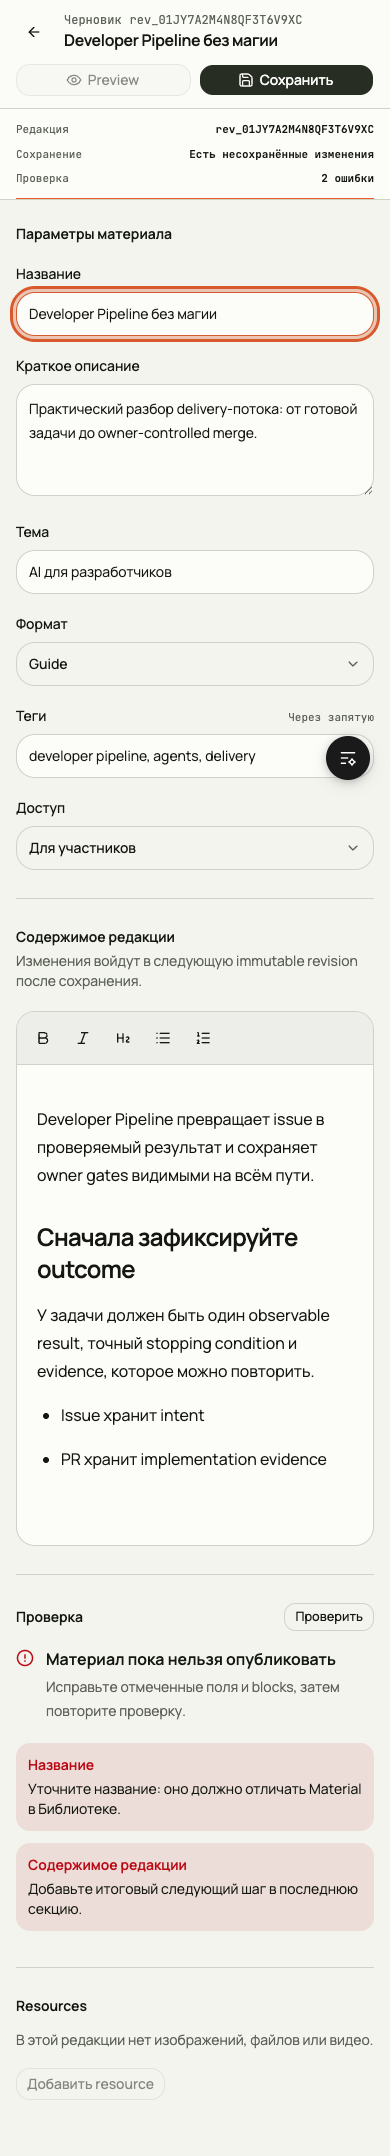
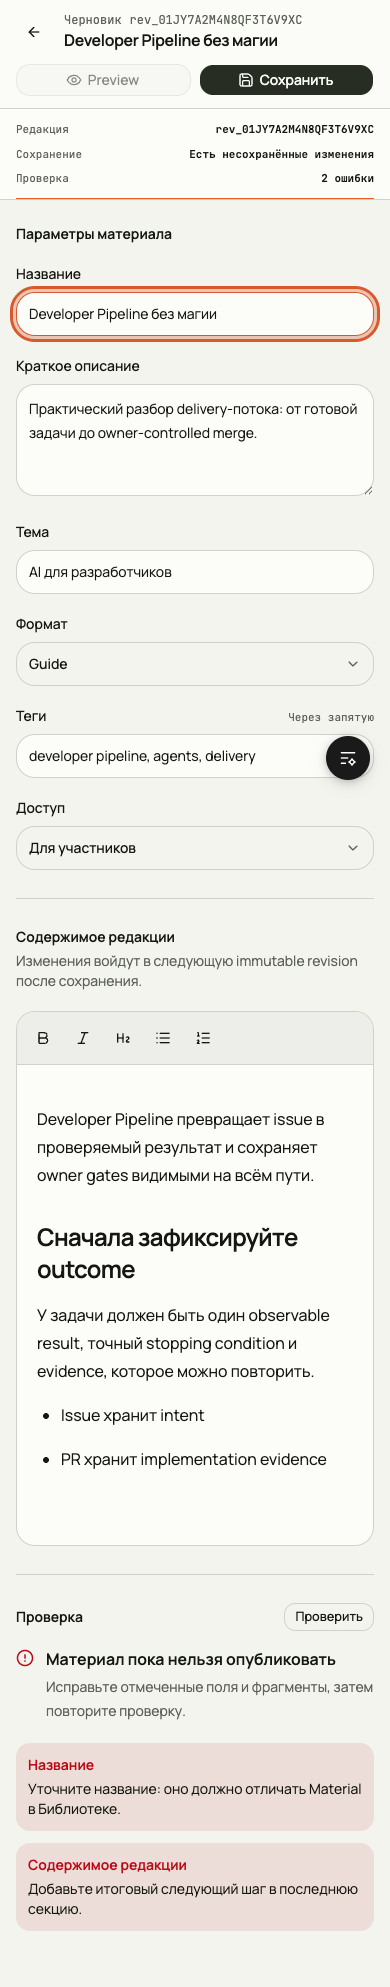
fix(web): tighten authoring review evidence

diff --git a/apps/web/src/workshop/material-authoring.stories.tsx b/apps/web/src/workshop/material-authoring.stories.tsx
@@ -8,16 +8,14 @@ import {
   type MaterialAuthoringActions,
   type MaterialAuthoringPresentation,
   type MaterialDraftField,
-  type MaterialPreviewBlock,
-  type MaterialPreviewMark,
-  type MaterialPreviewPresentation,
-  type MaterialPreviewText,
 } from "@/features/material-authoring";
 
 import {
   emptyMaterialAuthoringPresentation,
   invalidMaterialAuthoringPresentation,
   materialAuthoringPresentation,
+  savedAfterEditingPresentation,
+  savedRevisionId,
 } from "./material-authoring.fixtures";
 
 const noopActions = {
@@ -31,8 +29,6 @@ const noopActions = {
   onSave: fn(),
   onValidate: fn(),
 } satisfies MaterialAuthoringActions;
-
-const savedRevisionId = "rev_01JY7C6RE4M2W9PK5AHN";
 
 function MaterialAuthoringFixture({
   initialPresentation,
@@ -94,21 +90,7 @@ function MaterialAuthoringFixture({
     },
     onSave: () => {
       noopActions.onSave();
-      setPresentation((current) => {
-        const draft = {
-          ...current.draft,
-          materialId: current.draft.materialId ?? "mat_developer_pipeline",
-          revisionId: savedRevisionId,
-          status: "draft" as const,
-        };
-        return {
-          ...current,
-          draft,
-          preview: projectPreview(draft, savedRevisionId),
-          save: { kind: "saved", savedAtLabel: "12:41" },
-          validation: { kind: "unchecked" },
-        };
-      });
+      setPresentation(savedAfterEditingPresentation);
     },
     onValidate: () => {
       noopActions.onValidate();
@@ -116,10 +98,7 @@ function MaterialAuthoringFixture({
       window.setTimeout(() => {
         setPresentation((current) => ({
           ...current,
-          validation:
-            current.draft.title.trim().length === 0
-              ? invalidMaterialAuthoringPresentation.validation
-              : { kind: "valid", checkedAtLabel: "12:42" },
+          validation: { kind: "valid", checkedAtLabel: "12:42" },
         }));
       }, 120);
     },
@@ -205,8 +184,16 @@ export const Submitting: Story = {
   },
   play: async ({ canvasElement }) => {
     const canvas = within(canvasElement);
-    await expect(canvas.getByRole("button", { name: "Сохранение…" })).toBeDisabled();
+    const saveButton = canvas.getByRole("button", { name: "Сохранение…" });
+    await expect(saveButton).toBeDisabled();
     await expect(canvas.getAllByText("Сохранение…").length).toBeGreaterThan(0);
+    const loader = saveButton.querySelector("svg");
+    await expect(loader).not.toBeNull();
+    if (loader !== null) {
+      const style = canvasElement.ownerDocument.defaultView?.getComputedStyle(loader);
+      await expect(style?.animationName).toBe("none");
+      await expect(style?.animationDuration).toBe("0s");
+    }
   },
 };
 
@@ -279,6 +266,20 @@ export const ExactPreview: Story = {
   },
 };
 
+export const ExactPreviewMobile: Story = {
+  args: {
+    presentation: { ...materialAuthoringPresentation, mode: "preview" },
+  },
+  globals: { viewport: { isRotated: false, value: "mobile390" } },
+  name: "Exact Preview · mobile",
+  play: async ({ canvasElement }) => {
+    const canvas = within(canvasElement);
+    await expect(canvas.getByRole("heading", { name: "Preview exact revision" })).toBeInTheDocument();
+    await expect(canvas.getAllByText(/rev_01JY7A2M4N8QF3T6V9XC/).length).toBeGreaterThan(0);
+    await expectNoHorizontalOverflow(canvasElement);
+  },
+};
+
 export const Conflict: Story = {
   args: {
     presentation: {
@@ -347,74 +348,4 @@ async function expectNoHorizontalOverflow(canvasElement: HTMLElement) {
   await expect(canvasElement.ownerDocument.documentElement.scrollWidth).toBeLessThanOrEqual(
     storyWindow.innerWidth + 1,
   );
-}
-
-function projectPreview(
-  draft: MaterialAuthoringPresentation["draft"],
-  exactRevisionId: string,
-): MaterialPreviewPresentation {
-  return {
-    accessLabel: draft.access === "membership" ? "Для участников" : "Бесплатный",
-    blocks: projectBlocks(draft.document.content ?? []),
-    exactRevisionId,
-    format: draft.format,
-    summary: draft.summary,
-    tags: draft.tags.split(",").map((tag) => tag.trim()).filter(Boolean),
-    title: draft.title,
-    topic: draft.topic,
-  };
-}
-
-function projectBlocks(nodes: readonly JSONContent[]): readonly MaterialPreviewBlock[] {
-  return nodes.flatMap((node): readonly MaterialPreviewBlock[] => {
-    switch (node.type) {
-      case "paragraph":
-        return [{ content: projectInline(node.content ?? []), kind: "paragraph" }];
-      case "heading": {
-        const rawLevel = typeof node.attrs?.level === "number" ? node.attrs.level : 2;
-        const level = Math.min(4, Math.max(2, rawLevel)) as 2 | 3 | 4;
-        return [{ content: projectInline(node.content ?? []), kind: "heading", level }];
-      }
-      case "bulletList":
-      case "orderedList":
-        return [{
-          items: (node.content ?? []).map((item) => projectBlocks(item.content ?? [])),
-          kind: node.type === "bulletList" ? "bullet_list" : "ordered_list",
-        }];
-      case "blockquote":
-        return [{ content: projectBlocks(node.content ?? []), kind: "blockquote" }];
-      case "codeBlock":
-        return [{ kind: "code_block", text: collectText(node.content ?? []) }];
-      case "horizontalRule":
-        return [{ kind: "horizontal_rule" }];
-      case undefined:
-      default:
-        return [];
-    }
-  });
-}
-
-function projectInline(nodes: readonly JSONContent[]): readonly MaterialPreviewText[] {
-  return nodes.flatMap((node): readonly MaterialPreviewText[] => {
-    if (node.type !== "text" || typeof node.text !== "string") {
-      return [];
-    }
-    return [{
-      kind: "text",
-      marks: (node.marks ?? []).flatMap((mark): readonly MaterialPreviewMark[] => {
-        if (mark.type === "link" && typeof mark.attrs?.href === "string") {
-          return [{ href: mark.attrs.href, kind: "link" }];
-        }
-        if (mark.type === "bold" || mark.type === "code" || mark.type === "italic" || mark.type === "strike") {
-          return [{ kind: mark.type }];
-        }
-        return [];
-      }),
-      text: node.text,
-    }];
-  });
-}
-
-function collectText(nodes: readonly JSONContent[]): string {
-  return nodes.map((node) => node.text ?? collectText(node.content ?? [])).join("");
 }

diff --git a/apps/web/src/features/material-authoring/ui/material-authoring-workspace.client.tsx b/apps/web/src/features/material-authoring/ui/material-authoring-workspace.client.tsx
@@ -397,11 +397,6 @@ function ValidationPanel({ actions, presentation }: MaterialAuthoringWorkspacePr
         </Button>
       </div>
       <ValidationContent state={presentation.validation} />
-      <section aria-labelledby="resources-heading" className="mt-9 border-t border-border pt-7">
-        <h2 className="text-sm font-semibold" id="resources-heading">Resources</h2>
-        <p className="mt-3 text-sm leading-6 text-muted-foreground">В этой редакции нет изображений, файлов или видео.</p>
-        <Button className="mt-4" disabled type="button" variant="outline">Добавить resource</Button>
-      </section>
     </aside>
   );
 }
@@ -447,7 +442,7 @@ function ValidationContent({ state }: { readonly state: MaterialValidationState 
         <CircleAlert aria-hidden="true" className="mt-0.5 size-4.5 shrink-0 text-destructive" />
         <div>
           <p className="font-semibold">Материал пока нельзя опубликовать</p>
-          <p className="mt-1 text-sm leading-6 text-muted-foreground">Исправьте отмеченные поля и blocks, затем повторите проверку.</p>
+          <p className="mt-1 text-sm leading-6 text-muted-foreground">Исправьте отмеченные поля и фрагменты, затем повторите проверку.</p>
         </div>
       </div>
       <ul className="mt-5 space-y-3" role="list">
@@ -489,8 +484,8 @@ function BlockingState({ actions, presentation }: MaterialAuthoringWorkspaceProp
           </div>
           <div className="flex flex-wrap gap-2">
             <Button onClick={() => { actions.onConflictAction("compare"); }} type="button">Сравнить</Button>
-            <Button onClick={() => { actions.onConflictAction("reload"); }} type="button" variant="outline">Reload current</Button>
-            <Button onClick={() => { actions.onConflictAction("copy"); }} type="button" variant="ghost">Copy my changes</Button>
+            <Button onClick={() => { actions.onConflictAction("reload"); }} type="button" variant="outline">Загрузить текущую</Button>
+            <Button onClick={() => { actions.onConflictAction("copy"); }} type="button" variant="ghost">Скопировать мои изменения</Button>
           </div>
         </div>
       </div>
@@ -540,7 +535,7 @@ function ExactPreview({
             </Button>
             <div className="min-w-0">
               <h1 className="text-sm font-semibold" id="exact-preview-heading">Preview exact revision</h1>
-              <p className="truncate font-mono text-[0.6875rem] text-sidebar-foreground/70">{preview.exactRevisionId} · private · no-store</p>
+              <p className="truncate font-mono text-[0.6875rem] text-sidebar-foreground/70">{preview.exactRevisionId}</p>
               <PreviewValidationStatus state={presentation.validation} />
             </div>
           </div>

diff --git a/apps/web/src/workshop/material-authoring.fixtures.ts b/apps/web/src/workshop/material-authoring.fixtures.ts
@@ -16,6 +16,7 @@ const paragraph = (value: string): MaterialPreviewBlock => ({
 });
 
 const revisionId = "rev_01JY7A2M4N8QF3T6V9XC";
+export const savedRevisionId = "rev_01JY7C6RE4M2W9PK5AHN";
 
 export const materialAuthoringPresentation = {
   authorization: { kind: "allowed" },
@@ -117,6 +118,22 @@ export const materialAuthoringPresentation = {
     topic: "AI для разработчиков",
   },
   save: { kind: "clean" },
+  validation: { kind: "unchecked" },
+} as const satisfies MaterialAuthoringPresentation;
+
+export const savedAfterEditingPresentation = {
+  ...materialAuthoringPresentation,
+  draft: {
+    ...materialAuthoringPresentation.draft,
+    revisionId: savedRevisionId,
+    title: "Новая редакция Developer Pipeline",
+  },
+  preview: {
+    ...materialAuthoringPresentation.preview,
+    exactRevisionId: savedRevisionId,
+    title: "Новая редакция Developer Pipeline",
+  },
+  save: { kind: "saved", savedAtLabel: "12:41" },
   validation: { kind: "unchecked" },
 } as const satisfies MaterialAuthoringPresentation;
 

diff --git a/apps/web/DESIGN.md b/apps/web/DESIGN.md
@@ -115,7 +115,7 @@ components:
 
 Sachkov Inside Platform — спокойная светлая инженерная мастерская: тёплый canvas оставляет место контенту, charcoal-регионы собирают code, media и focused work, а orange появляется только там, где нужно доказать current state или следующий meaningful action. Интерфейс современный и мягко округлённый, но остаётся операционным: grouping, hierarchy и exact product facts важнее декоративной плотности.
 
-Это документированная incumbent world, выросшая из owner-calibrated H1 и уже реализованных foundations и reusable primitives. Она не делает каждую поверхность карточкой, не переносит marketing composition в приложение и не выдаёт task-specific proof за глобальный system mandate. issue #38 завершил finish review со статусом `ship`, но его authoring layout и revision rail остаются candidate pattern до отдельного owner visual/interaction GO.
+Это документированная incumbent world, выросшая из owner-calibrated H1 и уже реализованных foundations и reusable primitives. Она не делает каждую поверхность карточкой, не переносит marketing composition в приложение и не выдаёт task-specific proof за глобальный system mandate. issue #38 завершил finish review со статусом `ship`; exact Preview теперь имеет bounded desktop и narrow-mobile evidence, но authoring layout и revision rail остаются candidate pattern до отдельного owner visual/interaction GO.
 
 **Key Characteristics:**
 
@@ -175,13 +175,13 @@ Sachkov Inside Platform — спокойная светлая инженерна
 
 The system is mobile-first. Narrow surfaces preserve content priority and a single semantic reading order, then add space-driven enhancements through min-width or container queries. The accepted application shell uses a continuous mobile canvas with a persistent compact bottom navigation; desktop adds the inset expandable charcoal sidebar and lets the main content own scrolling. Reading columns remain bounded near 70–72 characters, while application canvases use generous maximum widths appropriate to the task.
 
-The issue #38 authoring proof keeps metadata → document → validation in that order on narrow screens and expresses the same order as three desktop columns inside a wide workbench. Its sticky author header and orange revision rail are a candidate authoring pattern pending owner visual/interaction GO, not a required layout for other operate surfaces.
+The issue #38 authoring proof keeps metadata → document → validation in that order on narrow screens and expresses the same order as three desktop columns inside a wide workbench. Exact Preview now has desktop and 390 × 844 mobile evidence with the same exact-revision identity and no horizontal overflow. The sticky author header and orange revision rail remain a candidate authoring pattern pending owner visual/interaction GO, not a required layout for other operate surfaces.
 
 **The Mobile Semantic Order Rule.** Responsive changes may add columns, rails or contextual controls, but they must preserve the narrow-screen information order and primary actions.
 
 ## Elevation & Depth
 
-The system is mostly tonal and bordered. Resting content surfaces use canvas, card, muted fill and one-pixel dividers; restrained card shadows are reserved for interactive bounded objects such as accepted Material cards and popover content. Charcoal regions create structural depth without glow, glass or gradients. Hover lift is slight and disabled for reduced-motion users.
+The system is mostly tonal and bordered. Resting content surfaces use canvas, card, muted fill and one-pixel dividers; restrained card shadows are reserved for interactive bounded objects such as accepted Material cards and popover content. Charcoal regions create structural depth without glow, glass or gradients. Hover lift is slight and disabled for reduced-motion users; Storybook exercises that contract in a real reduced-motion browser context.
 
 ### Shadow Vocabulary
 
@@ -229,7 +229,7 @@ Soft rounding is a grouping grammar, not decoration. Compact actions and navigat
 
 - **Status:** candidate pattern from issue #38; finish verdict is `ship`, but global adoption awaits owner visual/interaction GO.
 - **Composition:** sticky author header, revision rail, and metadata → document → validation semantic order; desktop may render the order as three columns.
-- **State:** exact revision, save and validation facts remain literal; Preview names the exact immutable revision and never implies publication.
+- **State:** exact revision, save and validation facts remain literal; Preview names the exact immutable revision, never adds unowned transport/security claims, never implies publication and now has desktop plus narrow-mobile proof.
 
 **The Owner Gate Candidate Rule.** Treat the issue #38 authoring layout and revision rail as reusable evidence to review, not as an approved global mandate, until owner visual/interaction GO is recorded.
 
